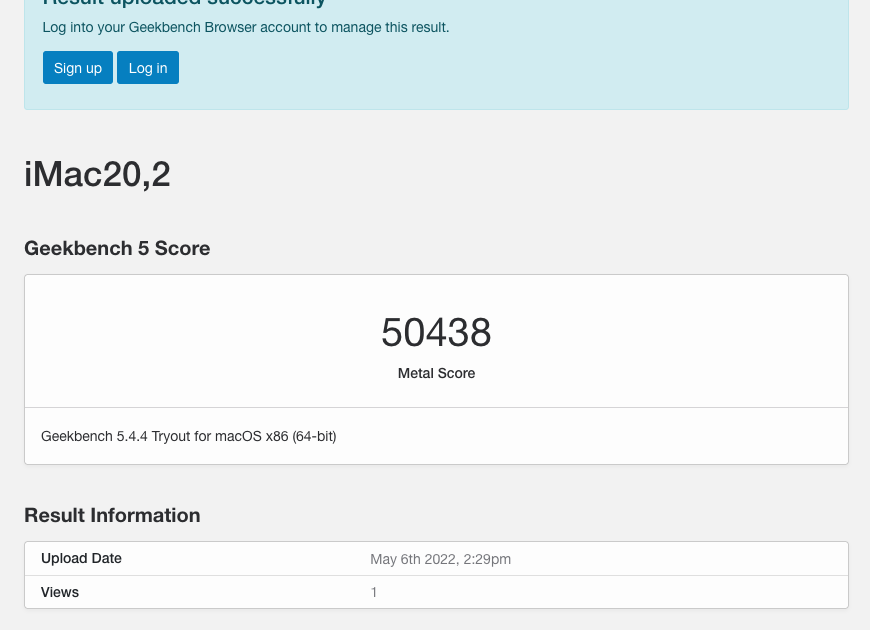
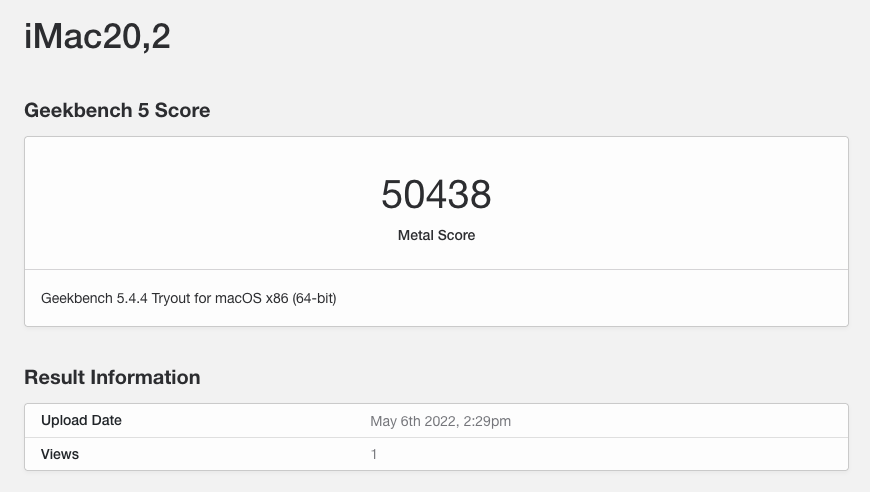
Added Clover

diff --git a/Benchmarks/README.md b/Benchmarks/README.md
@@ -75,9 +75,9 @@ As you can see, the Metal score increased by apporx. 580 points when using the "
 
 **All Results compared**:
 
-Method             |macOS.     |  Score (stock) OC/Clover | Score (tweaked) (OC/Clover)
+Method             |macOS      |  Score (stock) OC/Clover | Score (tweaked) (OC/Clover)
 -------------------|:---------:|--------------------------|----------------------------
-Metal (iMac20,2)   |12.4 beta 4|                          | 50438 / **51387**
+Metal (iMac20,2)   |12.4 beta 4|                          | [50438](https://raw.githubusercontent.com/5T33Z0/Gigabyte-Z490-Vision-G-Hackintosh-OpenCore/main/Benchmarks/macOS12.4_Metal_Tweaked_OpenCore.png) / **[51387](https://raw.githubusercontent.com/5T33Z0/Gigabyte-Z490-Vision-G-Hackintosh-OpenCore/main/Benchmarks/macOS12.4_Metal_Tweaked_Clover.png)**
 Metal (MacPro7,1)  |11.6.7     | 48394                    | 51323
 Metal (iMac20,2)   |"          | 50107                    | 50683
 Metal (iMacPro1,1) |"          | 48230                    | 50032
